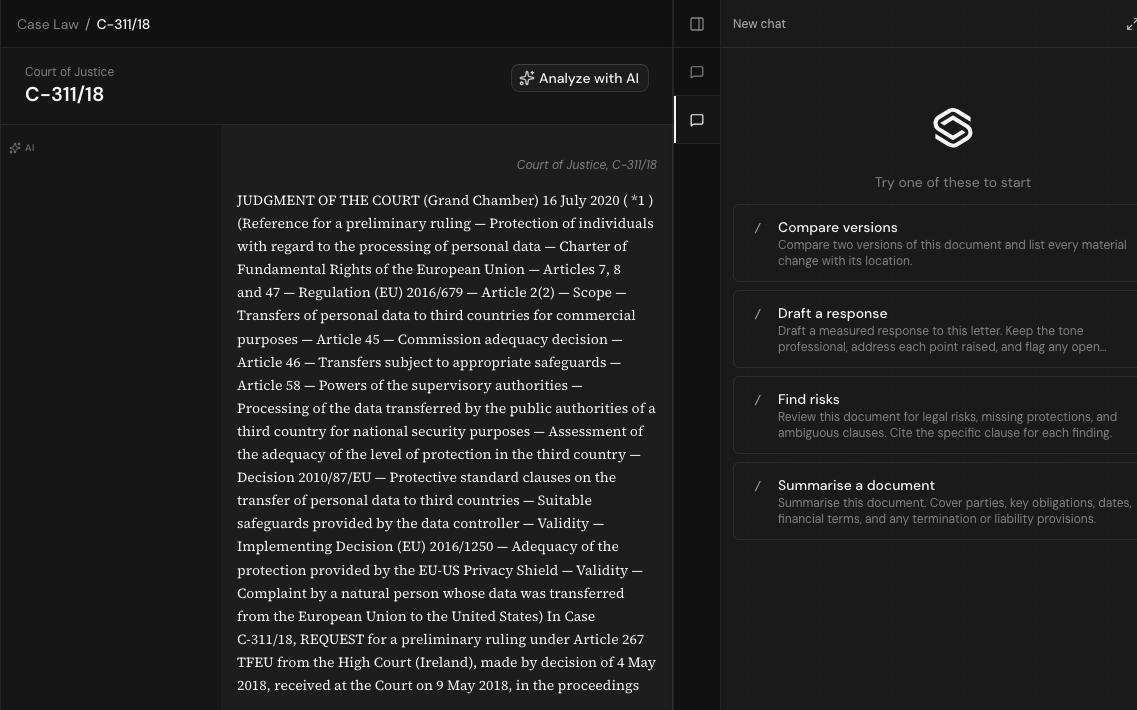
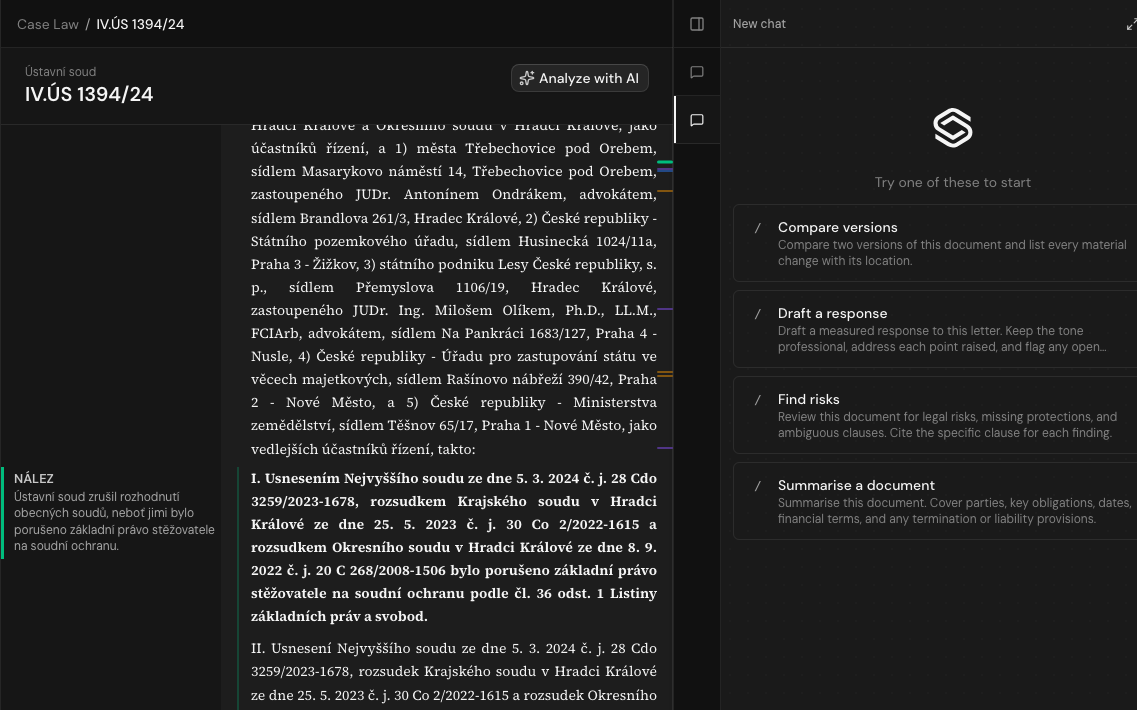
chore(landing): film three national decisions for the legal-data captures
Replace the single story-public-data capture (ECJ Schrems II, which has no
document AST and rendered as an unstructured wall of text) with three
national decisions, each captured with the structured reader (structure/AI
margin populated): a Czech Constitutional Court restitution ruling, a
Polish regional-court inheritance judgment, and a Slovak district-court
company-deregistration order.

product-screenshots.spec.ts: parameterize the open-decision prepare with a
per-capture decisionText, and wait for the outline rail (not just the
article) before shooting, since the session query briefly renders the
logged-out AI button on mount.

diff --git a/apps/web/e2e/marketing/product-screenshots.spec.ts b/apps/web/e2e/marketing/product-screenshots.spec.ts
@@ -23,10 +23,31 @@ const captures = [
     prepare: "open-table",
     readyText: "Export Review - Project Atlas Data Room",
   },
+  // Three different national decisions (CZE, POL, SVK), each rendering with
+  // the structured reader (structure/AI margin populated) so the chapter can
+  // cross-fade between jurisdictions. Keep in sync with
+  // HomeProductStory.astro's data chapter.
   {
-    name: "story-public-data",
+    name: "story-public-data-1",
     path: "/law/cases",
     prepare: "open-decision",
+    decisionText: "IV.ÚS 1394/24",
+    readyText: "Case Law",
+    clip: { x: 0, y: 0, width: 1440, height: 760 },
+  },
+  {
+    name: "story-public-data-2",
+    path: "/law/cases",
+    prepare: "open-decision",
+    decisionText: "IV C 1273/16",
+    readyText: "Case Law",
+    clip: { x: 0, y: 0, width: 1440, height: 760 },
+  },
+  {
+    name: "story-public-data-3",
+    path: "/law/cases",
+    prepare: "open-decision",
+    decisionText: "25Cbr/166/2024",
     readyText: "Case Law",
     clip: { x: 0, y: 0, width: 1440, height: 760 },
   },
@@ -45,6 +66,7 @@ const captures = [
     name: "public-data",
     path: "/law/cases",
     prepare: "open-decision",
+    decisionText: "IV.ÚS 1394/24",
     readyText: "Case Law",
   },
   { name: "templates", path: "/knowledge/templates", readyText: "Templates" },
@@ -97,17 +119,45 @@ test("capture landing product screenshots", async ({
         await expect(page.locator(capture.readySelector).first()).toBeVisible();
       }
       if ("prepare" in capture && capture.prepare === "open-decision") {
-        // Film the ECJ's Schrems II judgment (C-311/18) deterministically,
-        // rather than whatever happens to be newest in the seeded corpus.
+        // Film a specific national decision deterministically, rather than
+        // whatever happens to be newest in the seeded corpus.
         // eslint-disable-next-line no-await-in-loop -- see above
         await page
           .locator('main a[href*="/cases/"]')
-          .filter({ hasText: "C-311/18" })
+          .filter({ hasText: capture.decisionText })
           .click();
         // eslint-disable-next-line no-await-in-loop -- see above
         await expect(page).toHaveURL(/\/law\/[a-z-]+\/cases\//u);
         // eslint-disable-next-line no-await-in-loop -- see above
         await expect(page.locator("article").first()).toBeVisible();
+        // The reader briefly renders a logged-out "locked" AI button while
+        // the client-side session query settles (useClientAuthStatus), then
+        // swaps in the authenticated workspace. Wait for that swap so the
+        // click below hits the real analyze button, not the sign-in prompt.
+        // eslint-disable-next-line no-await-in-loop -- see above
+        await page.waitForLoadState("networkidle");
+        // The structure/AI margin is generated on demand. These decisions
+        // already have their analysis cached server-side, but the client
+        // still needs one round trip to fetch it; trigger it explicitly and
+        // wait for the outline rail so the capture never lands on the
+        // empty/loading margin state.
+        // eslint-disable-next-line no-await-in-loop -- see above
+        const analyzeButton = page.getByRole("button", {
+          name: "Analyze with AI",
+        });
+        // eslint-disable-next-line no-await-in-loop -- see above
+        await expect(analyzeButton).toBeVisible();
+        // eslint-disable-next-line no-await-in-loop -- see above
+        await analyzeButton.click();
+        // eslint-disable-next-line no-await-in-loop -- see above
+        await expect(
+          page.getByRole("group", { name: "Outline" }),
+        ).toBeVisible();
+        // The first margin annotation may sit below a long headnote (e.g. a
+        // Constitutional Court "legal sentence" summary); scroll it into view
+        // so the capture shows the structure margin, not just headnote text.
+        // eslint-disable-next-line no-await-in-loop -- see above
+        await page.locator("aside button").first().scrollIntoViewIfNeeded();
       }
       if ("prepare" in capture && capture.prepare === "open-files") {
         // eslint-disable-next-line no-await-in-loop -- see above
